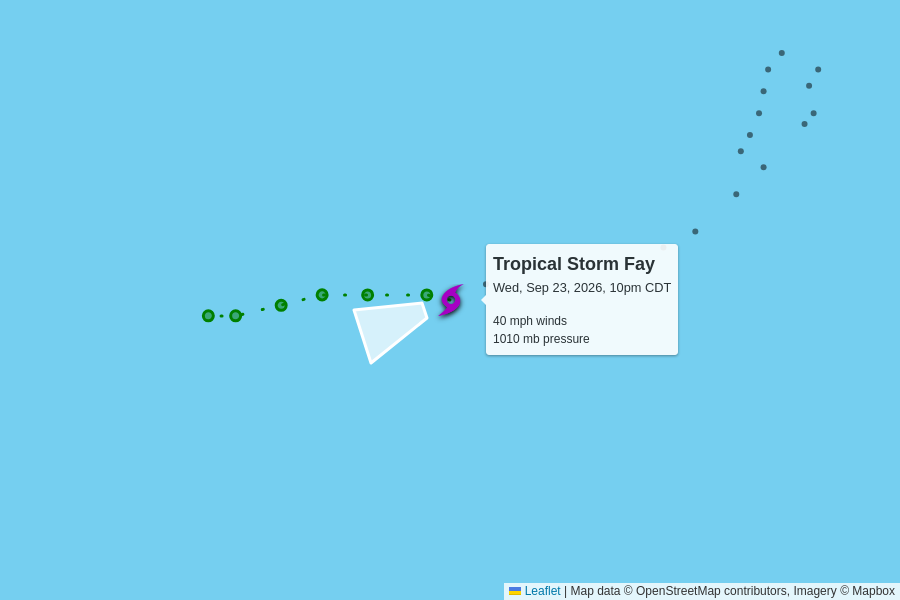
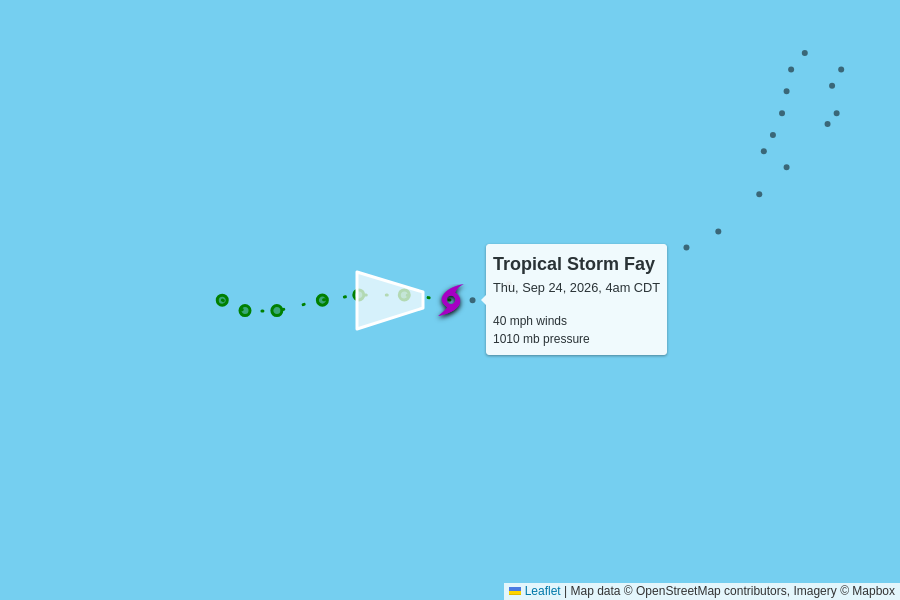
automatic update

diff --git a/docs/2026.html b/docs/2026.html
@@ -45,13 +45,13 @@
       <grid-container>
           <grid-row>
             <script type="text/json" id="storm_data_AL062026">
-              {"pressure":[{"timestamp":"2026-09-19T15:00:00.000Z","value":1009},{"timestamp":"2026-09-19T21:00:00.000Z","value":1007},{"timestamp":"2026-09-20T03:00:00.000Z","value":1007},{"timestamp":"2026-09-20T09:00:00.000Z","value":1004},{"timestamp":"2026-09-20T15:00:00.000Z","value":1004},{"timestamp":"2026-09-20T21:00:00.000Z","value":999},{"timestamp":"2026-09-21T03:00:00.000Z","value":995},{"timestamp":"2026-09-21T09:00:00.000Z","value":997},{"timestamp":"2026-09-21T15:00:00.000Z","value":1000},{"timestamp":"2026-09-21T21:00:00.000Z","value":1004},{"timestamp":"2026-09-22T03:00:00.000Z","value":1008},{"timestamp":"2026-09-22T09:00:00.000Z","value":1009},{"timestamp":"2026-09-22T15:00:00.000Z","value":1010},{"timestamp":"2026-09-22T21:00:00.000Z","value":1011},{"timestamp":"2026-09-23T21:00:00.000Z","value":1011},{"timestamp":"2026-09-24T03:00:00.000Z","value":1010}],"wind":[{"timestamp":"2026-09-19T15:00:00.000Z","value":35},{"timestamp":"2026-09-19T21:00:00.000Z","value":35},{"timestamp":"2026-09-20T03:00:00.000Z","value":35},{"timestamp":"2026-09-20T09:00:00.000Z","value":45},{"timestamp":"2026-09-20T15:00:00.000Z","value":60},{"timestamp":"2026-09-20T21:00:00.000Z","value":65},{"timestamp":"2026-09-21T03:00:00.000Z","value":70},{"timestamp":"2026-09-21T09:00:00.000Z","value":65},{"timestamp":"2026-09-21T15:00:00.000Z","value":50},{"timestamp":"2026-09-21T21:00:00.000Z","value":45},{"timestamp":"2026-09-22T03:00:00.000Z","value":40},{"timestamp":"2026-09-22T09:00:00.000Z","value":40},{"timestamp":"2026-09-22T15:00:00.000Z","value":35},{"timestamp":"2026-09-22T21:00:00.000Z","value":35},{"timestamp":"2026-09-23T21:00:00.000Z","value":35},{"timestamp":"2026-09-24T03:00:00.000Z","value":40}]}
+              {"pressure":[{"timestamp":"2026-09-19T15:00:00.000Z","value":1009},{"timestamp":"2026-09-19T21:00:00.000Z","value":1007},{"timestamp":"2026-09-20T03:00:00.000Z","value":1007},{"timestamp":"2026-09-20T09:00:00.000Z","value":1004},{"timestamp":"2026-09-20T15:00:00.000Z","value":1004},{"timestamp":"2026-09-20T21:00:00.000Z","value":999},{"timestamp":"2026-09-21T03:00:00.000Z","value":995},{"timestamp":"2026-09-21T09:00:00.000Z","value":997},{"timestamp":"2026-09-21T15:00:00.000Z","value":1000},{"timestamp":"2026-09-21T21:00:00.000Z","value":1004},{"timestamp":"2026-09-22T03:00:00.000Z","value":1008},{"timestamp":"2026-09-22T09:00:00.000Z","value":1009},{"timestamp":"2026-09-22T15:00:00.000Z","value":1010},{"timestamp":"2026-09-22T21:00:00.000Z","value":1011},{"timestamp":"2026-09-23T21:00:00.000Z","value":1011},{"timestamp":"2026-09-24T03:00:00.000Z","value":1010},{"timestamp":"2026-09-24T09:00:00.000Z","value":1010}],"wind":[{"timestamp":"2026-09-19T15:00:00.000Z","value":35},{"timestamp":"2026-09-19T21:00:00.000Z","value":35},{"timestamp":"2026-09-20T03:00:00.000Z","value":35},{"timestamp":"2026-09-20T09:00:00.000Z","value":45},{"timestamp":"2026-09-20T15:00:00.000Z","value":60},{"timestamp":"2026-09-20T21:00:00.000Z","value":65},{"timestamp":"2026-09-21T03:00:00.000Z","value":70},{"timestamp":"2026-09-21T09:00:00.000Z","value":65},{"timestamp":"2026-09-21T15:00:00.000Z","value":50},{"timestamp":"2026-09-21T21:00:00.000Z","value":45},{"timestamp":"2026-09-22T03:00:00.000Z","value":40},{"timestamp":"2026-09-22T09:00:00.000Z","value":40},{"timestamp":"2026-09-22T15:00:00.000Z","value":35},{"timestamp":"2026-09-22T21:00:00.000Z","value":35},{"timestamp":"2026-09-23T21:00:00.000Z","value":35},{"timestamp":"2026-09-24T03:00:00.000Z","value":40},{"timestamp":"2026-09-24T09:00:00.000Z","value":40}]}
             </script>              <grid-container class="storm">
                 <grid-row onClick="toggle('storm_AL062026')">
                   <h2>
                     Tropical Storm Fay
                     <div class="updated">
-                      last updated <time datetime="2026-09-24T03:00:00.000Z">2026-09-24T03:00:00.000Z</time>
+                      last updated <time datetime="2026-09-24T09:00:00.000Z">2026-09-24T09:00:00.000Z</time>
                     </div>
                   </h2>
                 </grid-row>
@@ -69,17 +69,17 @@
                         <td>
                           40 mph
                           <br>
-                          +5 mph since last update
+                          0 mph since last update
                         </td>
                         <td>
                           1010 mb
                           <br>
-                          -1 mb since last update
+                          0 mb since last update
                         </td>
                         <td>
-                          9 mph to the west-southwest
+                          7 mph to the west
                           <br>
-                          <span style="display: inline-block; font-size: 1.5em; transform: rotate(250deg);">↑</span>
+                          <span style="display: inline-block; font-size: 1.5em; transform: rotate(270deg);">↑</span>
                         </td>
                         <td>
                           <a href="https://raw.githubusercontent.com/mgwalker/atlantic-hurricanes/main/data/csv/AL062026.csv">AL062026.csv</a>

diff --git a/docs/index.html b/docs/index.html
@@ -45,13 +45,13 @@
       <grid-container>
           <grid-row>
             <script type="text/json" id="storm_data_AL062026">
-              {"pressure":[{"timestamp":"2026-09-19T15:00:00.000Z","value":1009},{"timestamp":"2026-09-19T21:00:00.000Z","value":1007},{"timestamp":"2026-09-20T03:00:00.000Z","value":1007},{"timestamp":"2026-09-20T09:00:00.000Z","value":1004},{"timestamp":"2026-09-20T15:00:00.000Z","value":1004},{"timestamp":"2026-09-20T21:00:00.000Z","value":999},{"timestamp":"2026-09-21T03:00:00.000Z","value":995},{"timestamp":"2026-09-21T09:00:00.000Z","value":997},{"timestamp":"2026-09-21T15:00:00.000Z","value":1000},{"timestamp":"2026-09-21T21:00:00.000Z","value":1004},{"timestamp":"2026-09-22T03:00:00.000Z","value":1008},{"timestamp":"2026-09-22T09:00:00.000Z","value":1009},{"timestamp":"2026-09-22T15:00:00.000Z","value":1010},{"timestamp":"2026-09-22T21:00:00.000Z","value":1011},{"timestamp":"2026-09-23T21:00:00.000Z","value":1011},{"timestamp":"2026-09-24T03:00:00.000Z","value":1010}],"wind":[{"timestamp":"2026-09-19T15:00:00.000Z","value":35},{"timestamp":"2026-09-19T21:00:00.000Z","value":35},{"timestamp":"2026-09-20T03:00:00.000Z","value":35},{"timestamp":"2026-09-20T09:00:00.000Z","value":45},{"timestamp":"2026-09-20T15:00:00.000Z","value":60},{"timestamp":"2026-09-20T21:00:00.000Z","value":65},{"timestamp":"2026-09-21T03:00:00.000Z","value":70},{"timestamp":"2026-09-21T09:00:00.000Z","value":65},{"timestamp":"2026-09-21T15:00:00.000Z","value":50},{"timestamp":"2026-09-21T21:00:00.000Z","value":45},{"timestamp":"2026-09-22T03:00:00.000Z","value":40},{"timestamp":"2026-09-22T09:00:00.000Z","value":40},{"timestamp":"2026-09-22T15:00:00.000Z","value":35},{"timestamp":"2026-09-22T21:00:00.000Z","value":35},{"timestamp":"2026-09-23T21:00:00.000Z","value":35},{"timestamp":"2026-09-24T03:00:00.000Z","value":40}]}
+              {"pressure":[{"timestamp":"2026-09-19T15:00:00.000Z","value":1009},{"timestamp":"2026-09-19T21:00:00.000Z","value":1007},{"timestamp":"2026-09-20T03:00:00.000Z","value":1007},{"timestamp":"2026-09-20T09:00:00.000Z","value":1004},{"timestamp":"2026-09-20T15:00:00.000Z","value":1004},{"timestamp":"2026-09-20T21:00:00.000Z","value":999},{"timestamp":"2026-09-21T03:00:00.000Z","value":995},{"timestamp":"2026-09-21T09:00:00.000Z","value":997},{"timestamp":"2026-09-21T15:00:00.000Z","value":1000},{"timestamp":"2026-09-21T21:00:00.000Z","value":1004},{"timestamp":"2026-09-22T03:00:00.000Z","value":1008},{"timestamp":"2026-09-22T09:00:00.000Z","value":1009},{"timestamp":"2026-09-22T15:00:00.000Z","value":1010},{"timestamp":"2026-09-22T21:00:00.000Z","value":1011},{"timestamp":"2026-09-23T21:00:00.000Z","value":1011},{"timestamp":"2026-09-24T03:00:00.000Z","value":1010},{"timestamp":"2026-09-24T09:00:00.000Z","value":1010}],"wind":[{"timestamp":"2026-09-19T15:00:00.000Z","value":35},{"timestamp":"2026-09-19T21:00:00.000Z","value":35},{"timestamp":"2026-09-20T03:00:00.000Z","value":35},{"timestamp":"2026-09-20T09:00:00.000Z","value":45},{"timestamp":"2026-09-20T15:00:00.000Z","value":60},{"timestamp":"2026-09-20T21:00:00.000Z","value":65},{"timestamp":"2026-09-21T03:00:00.000Z","value":70},{"timestamp":"2026-09-21T09:00:00.000Z","value":65},{"timestamp":"2026-09-21T15:00:00.000Z","value":50},{"timestamp":"2026-09-21T21:00:00.000Z","value":45},{"timestamp":"2026-09-22T03:00:00.000Z","value":40},{"timestamp":"2026-09-22T09:00:00.000Z","value":40},{"timestamp":"2026-09-22T15:00:00.000Z","value":35},{"timestamp":"2026-09-22T21:00:00.000Z","value":35},{"timestamp":"2026-09-23T21:00:00.000Z","value":35},{"timestamp":"2026-09-24T03:00:00.000Z","value":40},{"timestamp":"2026-09-24T09:00:00.000Z","value":40}]}
             </script>              <grid-container class="storm">
                 <grid-row onClick="toggle('storm_AL062026')">
                   <h2>
                     Tropical Storm Fay
                     <div class="updated">
-                      last updated <time datetime="2026-09-24T03:00:00.000Z">2026-09-24T03:00:00.000Z</time>
+                      last updated <time datetime="2026-09-24T09:00:00.000Z">2026-09-24T09:00:00.000Z</time>
                     </div>
                   </h2>
                 </grid-row>
@@ -69,17 +69,17 @@
                         <td>
                           40 mph
                           <br>
-                          +5 mph since last update
+                          0 mph since last update
                         </td>
                         <td>
                           1010 mb
                           <br>
-                          -1 mb since last update
+                          0 mb since last update
                         </td>
                         <td>
-                          9 mph to the west-southwest
+                          7 mph to the west
                           <br>
-                          <span style="display: inline-block; font-size: 1.5em; transform: rotate(250deg);">↑</span>
+                          <span style="display: inline-block; font-size: 1.5em; transform: rotate(270deg);">↑</span>
                         </td>
                         <td>
                           <a href="https://raw.githubusercontent.com/mgwalker/atlantic-hurricanes/main/data/csv/AL062026.csv">AL062026.csv</a>
